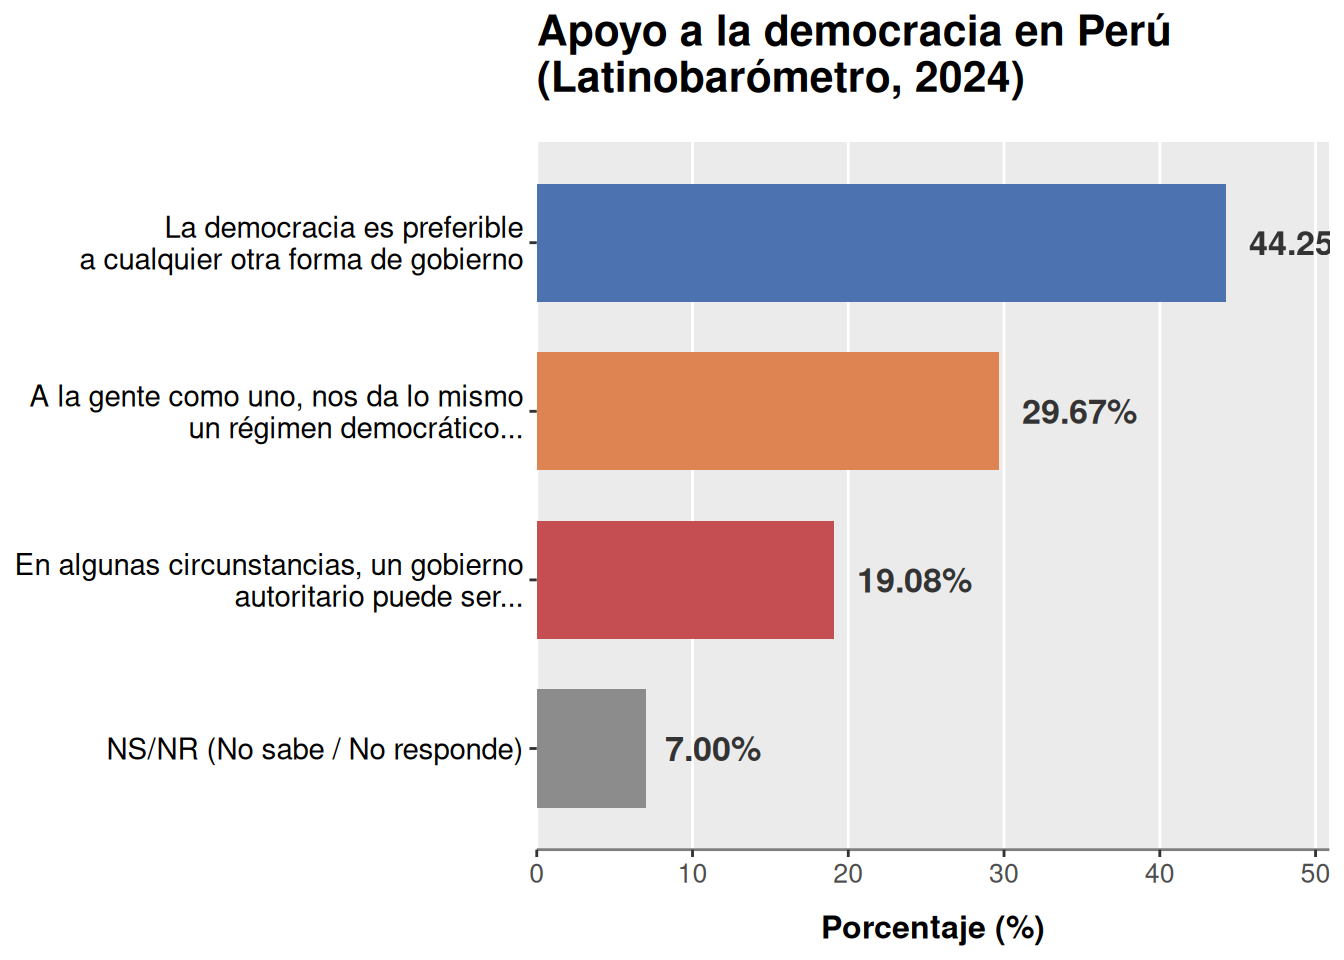
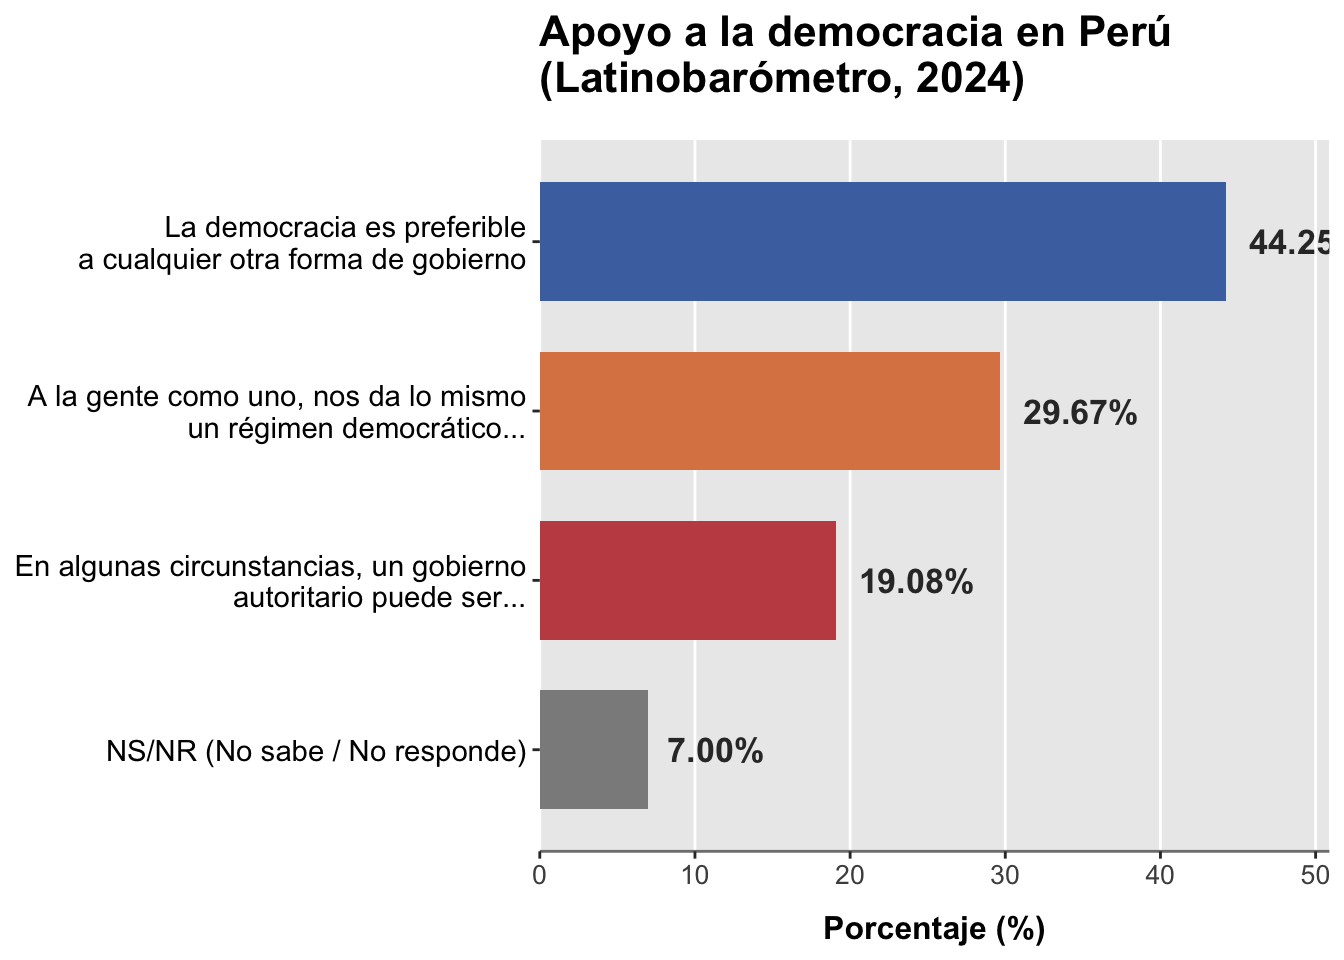
Adding sync from Macbook

diff --git a/content/post/CSR_000/index.html b/content/post/CSR_000/index.html
@@ -106,6 +106,7 @@ output:
 </tr>
 </tbody>
 </table>
+<pre><code>## Warning: package &#39;ggplot2&#39; was built under R version 4.4.3</code></pre>
 <p><img src="{{< blogdown/postref >}}index_files/figure-html/graf-1.png" alt="" width="672" /></p>
 <p>Como Latinobarómetro hace la misma encuesta (poco más o menos) cada año en el mismo espacio geográfico, es posible establecer ciertas comparaciones. En especial, ¿cómo se compara ese ya lejano 2006<a href="#fn8" class="footnote-ref" id="fnref8"><sup>8</sup></a> con los datos disponibles más recientes?</p>
 <table>
@@ -163,7 +164,7 @@ output:
 </div>
 <div id="ciencias-sociales-y-economía" class="section level3">
 <h3>Ciencias Sociales y Economía</h3>
-<p>Vergara enumera múltiples fuentes en las cuales se afirma que, si hay una relación entre economía y desarollo institucional, el efecto (la “variable dependiente”) es el desarrollo económico,</p>
+<p>Vergara enumera múltiples fuentes en las cuales se afirma que, si hay una relación entre economía y desarrollo institucional, es la institucionalidad la que fomenta la mejora económica, y no a la inversa.</p>
 </div>
 </div>
 </div>
